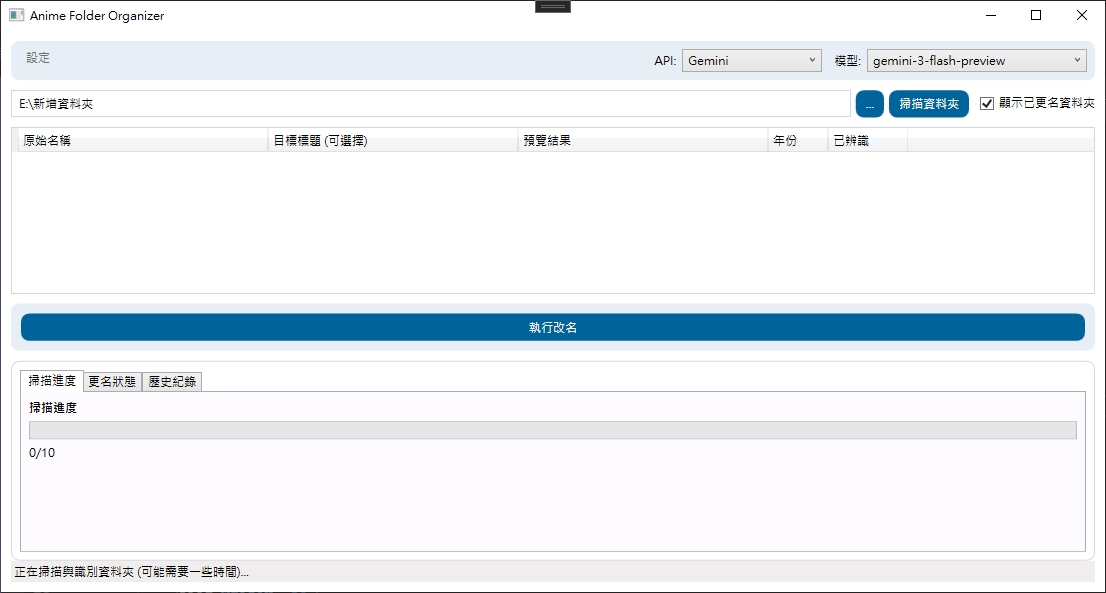
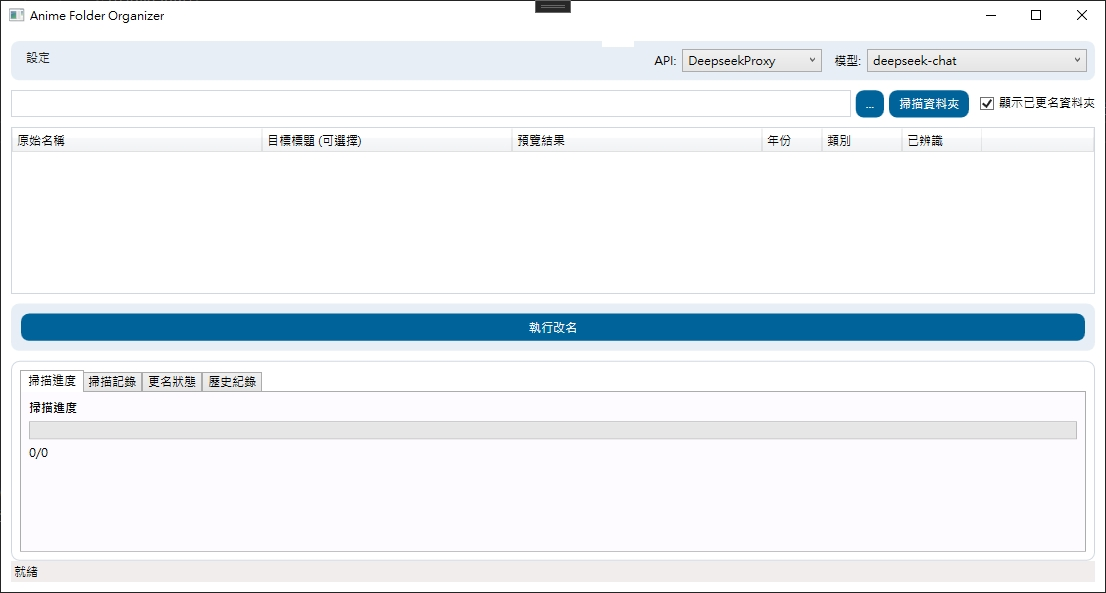
update

diff --git a/MainWindow.xaml b/MainWindow.xaml
@@ -69,34 +69,23 @@
         </Grid>
 
         <!-- Main Content -->
-        <DataGrid Grid.Row="2" ItemsSource="{Binding FolderList}" AutoGenerateColumns="False" CanUserAddRows="False" Margin="0,0,0,10">
-            <DataGrid.RowStyle>
-                <Style TargetType="DataGridRow">
-                    <Setter Property="ContextMenu">
-                        <Setter.Value>
-                            <ContextMenu DataContext="{Binding PlacementTarget.DataContext, RelativeSource={RelativeSource Self}}">
-                                <MenuItem Header="重新辨識"
-                                          Command="{Binding Data.ReanalyzeFolderCommand, Source={StaticResource RootViewModel}}"
-                                          CommandParameter="{Binding}"/>
-                                <MenuItem Header="以日文標題重新辨識"
-                                          Command="{Binding Data.ReanalyzeByJapaneseTitleCommand, Source={StaticResource RootViewModel}}"
-                                          CommandParameter="{Binding}">
-                                    <MenuItem.Style>
-                                        <Style TargetType="MenuItem">
-                                            <Setter Property="Visibility" Value="Collapsed"/>
-                                            <Style.Triggers>
-                                                <DataTrigger Binding="{Binding IsIdentified}" Value="True">
-                                                    <Setter Property="Visibility" Value="Visible"/>
-                                                </DataTrigger>
-                                            </Style.Triggers>
-                                        </Style>
-                                    </MenuItem.Style>
-                                </MenuItem>
-                            </ContextMenu>
-                        </Setter.Value>
-                    </Setter>
-                </Style>
-            </DataGrid.RowStyle>
+        <DataGrid Grid.Row="2"
+                  ItemsSource="{Binding FolderList}"
+                  AutoGenerateColumns="False"
+                  CanUserAddRows="False"
+                  SelectionMode="Extended"
+                  SelectionUnit="FullRow"
+                  Margin="0,0,0,10">
+            <DataGrid.ContextMenu>
+                <ContextMenu DataContext="{Binding PlacementTarget.DataContext, RelativeSource={RelativeSource Self}}">
+                    <MenuItem Header="重新辨識"
+                              Command="{Binding ReanalyzeFolderCommand}"
+                              CommandParameter="{Binding PlacementTarget.SelectedItems, RelativeSource={RelativeSource AncestorType=ContextMenu}}"/>
+                    <MenuItem Header="以日文標題重新辨識"
+                              Command="{Binding ReanalyzeByJapaneseTitleCommand}"
+                              CommandParameter="{Binding PlacementTarget.SelectedItems, RelativeSource={RelativeSource AncestorType=ContextMenu}}"/>
+                </ContextMenu>
+            </DataGrid.ContextMenu>
             <DataGrid.Columns>
                 <DataGridTextColumn Header="原始名稱" Binding="{Binding OriginalFolderName}" Width="250" IsReadOnly="True"/>
                 

diff --git a/SettingsWindow.xaml b/SettingsWindow.xaml
@@ -7,7 +7,7 @@
         xmlns:sys="clr-namespace:System;assembly=mscorlib"
         xmlns:models="clr-namespace:AnimeFolderOrganizer.Models"
         mc:Ignorable="d"
-        Title="設定" Height="660" Width="440"
+        Title="設定" Height="565" Width="440"
         WindowStartupLocation="CenterOwner"
         ResizeMode="NoResize">
 
@@ -160,7 +160,7 @@
                     <TextBlock Text="命名格式:"/>
                     <TextBox Text="{Binding NamingFormat}" Margin="0,4,0,0" Padding="5"/>
                     <TextBlock Text="可用標記: {Title}, {TitleTW}, {TitleCN}, {TitleJP}, {TitleEN}, {Type}, {Year}, {Original}" FontSize="11" Foreground="Gray" Margin="0,5,0,0"/>
-                    <TextBlock Text="TYPE 內容: TV / OVA / 特別版 / 劇場版" FontSize="11" Foreground="Gray" Margin="0,4,0,0"/>
+                    <TextBlock Text=" {Type} 內容: TV / OVA / 特別版 / 劇場版" FontSize="11" Foreground="Gray" Margin="0,4,0,0"/>
                 </StackPanel>
 
                 <StackPanel Margin="0,4,0,0">

diff --git a/ViewModels/MainViewModel.cs b/ViewModels/MainViewModel.cs
@@ -1,4 +1,5 @@
 using System;
+using System.Collections;
 using System.Collections.ObjectModel;
 using System.IO;
 using System.Threading.Tasks;
@@ -369,26 +370,44 @@ public partial class MainViewModel : ObservableObject
     }
 
     [RelayCommand(CanExecute = nameof(CanExecuteAction))]
-    private async Task ReanalyzeFolderAsync(AnimeFolderInfo? info)
+    private async Task ReanalyzeFolderAsync(object? parameter)
     {
-        if (info == null) return;
-        if (string.IsNullOrWhiteSpace(info.OriginalFolderName)) return;
+        var targets = ResolveSelection(parameter, info => !string.IsNullOrWhiteSpace(info.OriginalFolderName));
+        if (targets.Count == 0)
+        {
+            StatusMessage = "請先選擇要重新辨識的資料夾。";
+            return;
+        }
 
         try
         {
             IsBusy = true;
-            StatusMessage = $"重新辨識中: {info.OriginalFolderName}";
+            StatusMessage = $"重新辨識中... 0/{targets.Count}";
 
-            var result = await _metadataProvider.AnalyzeAsync(info.OriginalFolderName);
-            if (result == null)
+            const int batchSize = 10;
+            var processed = 0;
+
+            for (var i = 0; i < targets.Count; i += batchSize)
             {
-                StatusMessage = $"重新辨識失敗: {info.OriginalFolderName}";
-                return;
+                var batch = targets.Skip(i).Take(batchSize).ToList();
+                var names = batch.Select(x => x.OriginalFolderName).ToList();
+                var results = await _metadataProvider.AnalyzeBatchAsync(names);
+
+                for (var j = 0; j < batch.Count; j++)
+                {
+                    var info = batch[j];
+                    var result = j < results.Count ? results[j] : null;
+                    if (result != null)
+                    {
+                        await ApplyMetadataAsync(info, result);
+                    }
+
+                    processed++;
+                    StatusMessage = $"重新辨識中... {processed}/{targets.Count}";
+                }
             }
 
-            await ApplyMetadataAsync(info, result);
-
-            StatusMessage = $"重新辨識完成: {info.OriginalFolderName}";
+            StatusMessage = $"重新辨識完成: {processed}/{targets.Count}";
         }
         catch (Exception ex)
         {
@@ -401,10 +420,10 @@ public partial class MainViewModel : ObservableObject
     }
 
     [RelayCommand(CanExecute = nameof(CanExecuteAction))]
-    private async Task ReanalyzeByJapaneseTitleAsync(AnimeFolderInfo? info)
+    private async Task ReanalyzeByJapaneseTitleAsync(object? parameter)
     {
-        if (info == null) return;
-        if (string.IsNullOrWhiteSpace(info.TitleJP))
+        var targets = ResolveSelection(parameter, info => !string.IsNullOrWhiteSpace(info.TitleJP));
+        if (targets.Count == 0)
         {
             StatusMessage = "缺少日文標題，無法重新辨識。";
             return;
@@ -413,18 +432,32 @@ public partial class MainViewModel : ObservableObject
         try
         {
             IsBusy = true;
-            StatusMessage = $"使用日文標題重新辨識中: {info.TitleJP}";
+            StatusMessage = $"使用日文標題重新辨識中... 0/{targets.Count}";
 
-            var result = await _metadataProvider.AnalyzeAsync(info.TitleJP);
-            if (result == null)
+            const int batchSize = 10;
+            var processed = 0;
+
+            for (var i = 0; i < targets.Count; i += batchSize)
             {
-                StatusMessage = $"重新辨識失敗: {info.TitleJP}";
-                return;
+                var batch = targets.Skip(i).Take(batchSize).ToList();
+                var names = batch.Select(x => x.TitleJP!).ToList();
+                var results = await _metadataProvider.AnalyzeBatchAsync(names);
+
+                for (var j = 0; j < batch.Count; j++)
+                {
+                    var info = batch[j];
+                    var result = j < results.Count ? results[j] : null;
+                    if (result != null)
+                    {
+                        await ApplyMetadataAsync(info, result, confirmTitles: true, japaneseTitleOverride: info.TitleJP);
+                    }
+
+                    processed++;
+                    StatusMessage = $"使用日文標題重新辨識中... {processed}/{targets.Count}";
+                }
             }
 
-            await ApplyMetadataAsync(info, result, confirmTitles: true, japaneseTitleOverride: info.TitleJP);
-
-            StatusMessage = $"重新辨識完成: {info.OriginalFolderName}";
+            StatusMessage = $"重新辨識完成: {processed}/{targets.Count}";
         }
         catch (Exception ex)
         {
@@ -787,6 +820,49 @@ public partial class MainViewModel : ObservableObject
         {
             System.Diagnostics.Debug.WriteLine($"AddHistory failed: {ex}");
         }
+    }
+
+    private static List<AnimeFolderInfo> ResolveSelection(object? parameter, Func<AnimeFolderInfo, bool> predicate)
+    {
+        var results = new List<AnimeFolderInfo>();
+        var seen = new HashSet<AnimeFolderInfo>();
+
+        void AddItem(AnimeFolderInfo info)
+        {
+            if (predicate(info) && seen.Add(info))
+            {
+                results.Add(info);
+            }
+        }
+
+        if (parameter is AnimeFolderInfo single)
+        {
+            AddItem(single);
+            return results;
+        }
+
+        if (parameter is IList list)
+        {
+            foreach (var item in list)
+            {
+                if (item is AnimeFolderInfo info)
+                {
+                    AddItem(info);
+                }
+            }
+
+            return results;
+        }
+
+        if (parameter is IEnumerable<AnimeFolderInfo> enumerable)
+        {
+            foreach (var info in enumerable)
+            {
+                AddItem(info);
+            }
+        }
+
+        return results;
     }
 
     private async Task LoadFolderSnapshotAsync(string path)
